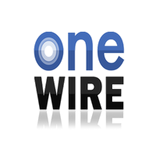
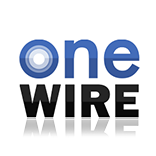
sprite and json updated

diff --git a/css/resume.css b/css/resume.css
@@ -43,12 +43,13 @@ opacity: 1;*/
 
 
 .sprite { 
-	background: white url('../img/about/sprite.png') no-repeat top left; 
+	background: white url('../img/about/sprite-new.png') no-repeat top left; 
 	width: 100%; height: 100%; background-size: cover;
 	border-radius: 50%; } 
 .sprite.perscholas { background-position: 0 0; } 
-.sprite.eko { background-position: 0 20%; } 
-.sprite.ga { background-position: 0 40%; } 
-.sprite.devshop { background-position: 0 60%; } 
-.sprite.onewire { background-position: 0 80%; } 
+.sprite.eko { background-position: 0 16.66%; } 
+.sprite.ga { background-position: 0 33.33%; } 
+.sprite.devshop { background-position: 0 50%; } 
+.sprite.onewire { background-position: 0 66.8%; } 
+.sprite.folica { background-position: 0 83.4%; } 
 .sprite.hire-me { background-position: 0 100%; } 
